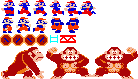
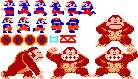
feat: add barrel spawner

Changed region(s): [[0.6667, 0.1772, 0.9855, 0.6076]]

diff --git a/src/world.cpp b/src/world.cpp
@@ -7,9 +7,13 @@
 World::World(int w, int h, TextureManager &textures)
     : width(w), height(h), player(Vector2(0, 0), NULL), tiles(NULL),
       tile_count(0), ladders(NULL), ladder_count(0), barrels(NULL),
-      barrel_count(0), textures(textures) {
+      barrel_count(0), textures(textures), barrel_spawner(Vector2(0, 0), NULL) {
 
   player = Player(Vector2(0, 0), &textures.player_texture);
+  barrel_spawner =
+      BarrelSpawner(Vector2(5, LOGICAL_SCREEN_HEIGHT - 38 * TILE_HEIGHT -
+                                   BARREL_SPAWNER_HEIGHT),
+                    &textures.barrel_spawner_texture);
 
   tiles = new Tile[MAX_TILE_COUNT];
   tile_count = 0;
@@ -28,11 +32,6 @@ World::World(int w, int h, TextureManager &textures)
   gen_tile_line(26, 4, 32, -1.5, 6, 2);
 
   gen_tile_line(0, 5, 38, 0);
-
-  barrels[barrel_count++] =
-      Barrel(Vector2(60, 80), DIR_RIGHT, &textures.barrel_texture);
-  barrels[barrel_count++] =
-      Barrel(Vector2(0, 20), DIR_LEFT, &textures.barrel_texture);
 }
 
 World::~World() {
@@ -82,6 +81,8 @@ void World::update(double dt) {
   for (int i = 0; i < barrel_count; i++) {
     barrels[i].update(this, dt);
   }
+
+  barrel_spawner.update(this, dt);
 }
 
 void World::draw(Screen &screen) {
@@ -97,4 +98,91 @@ void World::draw(Screen &screen) {
     barrels[i].draw(screen);
   }
   player.draw(screen);
+  barrel_spawner.draw(screen);
+}
+
+BarrelSpawner::BarrelSpawner(Vector2 pos, AnimatedTexture *texture)
+    : pos(pos), texture(texture), state(WAITING), timer(0), id_to_replace(-1) {}
+
+AnimatedTexture BarrelSpawner::create_texture() {
+  AnimatedTexture texture(BARREL_SPAWNER_WIDTH, BARREL_SPAWNER_HEIGHT);
+  texture.add_animation(
+      WAITING, AnimationFrames(92, 15, 1, BARREL_SPAWN_DELAY, 0, OR_NONE));
+
+  texture.add_animation(ABOUT_TO_SPAWN,
+                        AnimationFrames(46, 47, 2, 0.15, 0, OR_NONE));
+
+  texture.add_animation(SPAWNING, AnimationFrames(0, 47, 1, 0, 0, OR_NONE));
+
+  return texture;
+}
+
+bool BarrelSpawner::check_can_spawn(World *world) {
+  if (id_to_replace < 0) {
+    id_to_replace = get_fallen_off_id(world);
+  }
+  return id_to_replace >= 0 || world->barrel_count < MAX_BARREL_COUNT;
+}
+
+void BarrelSpawner::update(World *world, double dt) {
+  timer += dt;
+  texture->update(dt, true);
+
+  switch (state) {
+  case WAITING:
+    if (timer >= BARREL_SPAWN_DELAY && check_can_spawn(world)) {
+      state = ABOUT_TO_SPAWN;
+      timer = 0;
+    }
+    break;
+  case ABOUT_TO_SPAWN:
+    if (timer >= BARREL_ABOUT_TO_SPAWN_TIME) {
+      state = SPAWNING;
+      timer = 0;
+      spawn(world);
+    }
+    break;
+  case SPAWNING:
+    if (timer >= BARREL_SPAWN_TIME) {
+      state = WAITING;
+      timer = 0;
+
+      world->barrels[world->barrel_count - 1].start_moving(DIR_RIGHT);
+    }
+    break;
+  };
+
+  texture->change_state(state);
+}
+
+void BarrelSpawner::draw(Screen &screen) {
+  texture->draw(&screen, pos.x, pos.y);
+}
+
+int BarrelSpawner::get_fallen_off_id(World *world) {
+  for (int i = 0; i < world->barrel_count; i++) {
+    if (world->barrels[i].fallen_off) {
+      return i;
+    }
+  }
+  return -1;
+}
+
+Barrel BarrelSpawner::get_barrel(World *world) {
+  Vector2 b_pos(this->pos.x + BARREL_SPAWN_X_OFFSET,
+                this->pos.y + BARREL_SPAWN_Y_OFFSET);
+
+  return Barrel(b_pos, &world->textures.barrel_texture);
+}
+
+void BarrelSpawner::spawn(World *world) {
+  if (id_to_replace >= 0) {
+    // if theres is barrel to replace (teleport), swap it with the last one
+    // so the newest barrel is always at the end of the array
+    world->barrels[id_to_replace] = world->barrels[world->barrel_count - 1];
+    world->barrels[world->barrel_count - 1] = get_barrel(world);
+    id_to_replace = -1;
+    return;
+  }
+  world->barrels[world->barrel_count++] = get_barrel(world);
 }

diff --git a/src/objects.cpp b/src/objects.cpp
@@ -301,11 +301,26 @@ void Player::player_vertical_movement(double dt) {
   dynamic_obj.vertical_movement(move_direction, dt);
 }
 
-Barrel::Barrel(Vector2 pos, MoveDirection dir, AnimatedTexture *texture)
+Barrel::Barrel(Vector2 pos, AnimatedTexture *texture)
     : dynamic_obj(pos, BARREL_WIDTH, BARREL_HEIGHT, BARREL_MOVE_VEL, texture),
-      move_direction(dir), fallen_off(false) {}
+      move_direction(DIR_NONE), fallen_off(false) {
 
-Barrel::Barrel() : Barrel(Vector2(0, 0), DIR_NONE, NULL){};
+  dynamic_obj.coyote_on_ground = true;
+  dynamic_obj.on_ground = true;
+  freeze();
+}
+
+Barrel::Barrel() : Barrel(Vector2(0, 0), NULL){};
+
+void Barrel::start_moving(MoveDirection dir) {
+  dynamic_obj.acceleration.y = GRAVITY;
+  move_direction = dir;
+}
+
+void Barrel::freeze() {
+  dynamic_obj.acceleration.y = 0;
+  move_direction = DIR_NONE;
+}
 
 AnimatedTexture Barrel::create_texture() {
   AnimatedTexture texture = AnimatedTexture(BARREL_WIDTH, BARREL_HEIGHT);
@@ -328,9 +343,8 @@ void Barrel::update(World *world, double dt) {
   bool hit_ground = dynamic_obj.check_tile_collisions_y(world, false);
 
   if (dynamic_obj.rect_obj.bottom() > world->height) {
-    dynamic_obj.rect_obj.pos = Vector2(0, 20);
-    /* fallen_off = true; */
-    /* move_direction = DIR_NONE; */
+    fallen_off = true;
+    move_direction = DIR_NONE;
     return;
   }
 

diff --git a/src/world.hpp b/src/world.hpp
@@ -8,6 +8,46 @@
 #define MAX_TILE_COUNT 300
 #define MAX_LADDER_COUNT 20
 
+#define BARREL_SPAWN_DELAY 1.5
+#define BARREL_ABOUT_TO_SPAWN_TIME 0.85
+#define BARREL_SPAWN_TIME 0.2
+
+#define BARREL_SPAWNER_WIDTH 46
+#define BARREL_SPAWNER_HEIGHT 32
+
+#define BARREL_SPAWN_X_OFFSET 41
+#define BARREL_SPAWN_Y_OFFSET 20
+
+class World;
+
+enum BarrelSpawnerState {
+  WAITING,
+  ABOUT_TO_SPAWN,
+  SPAWNING,
+};
+
+class BarrelSpawner {
+public:
+  AnimatedTexture *texture;
+  Vector2 pos;
+  BarrelSpawnerState state;
+  double timer;
+
+  int id_to_replace;
+
+  static AnimatedTexture create_texture();
+
+  BarrelSpawner(Vector2 pos, AnimatedTexture *texture);
+
+  int get_fallen_off_id(World *world);
+  Barrel get_barrel(World *world);
+
+  bool check_can_spawn(World *world);
+  void update(World *world, double dt);
+  void draw(Screen &screen);
+  void spawn(World *world);
+};
+
 class World {
 
 public:
@@ -22,6 +62,8 @@ public:
 
   Barrel *barrels;
   int barrel_count;
+
+  BarrelSpawner barrel_spawner;
 
   TextureManager &textures;
 

diff --git a/src/texture.cpp b/src/texture.cpp
@@ -1,5 +1,6 @@
 #include "texture.hpp"
 #include "objects.hpp"
+#include "world.hpp"
 #include <cassert>
 
 AnimationFrames::AnimationFrames(int atlas_x, int atlas_y, int frame_count,
@@ -112,4 +113,5 @@ TextureManager::TextureManager()
     : player_texture(Player::create_texture()),
       barrel_texture(Barrel::create_texture()),
       tile_texture(Tile::create_texture()),
-      ladder_texture(Ladder::create_texture()) {}
+      ladder_texture(Ladder::create_texture()),
+      barrel_spawner_texture(BarrelSpawner::create_texture()) {}

diff --git a/src/objects.hpp b/src/objects.hpp
@@ -147,13 +147,15 @@ public:
   DynamicObject dynamic_obj;
   MoveDirection move_direction;
 
-  Barrel(Vector2 pos, MoveDirection dir, AnimatedTexture *texture);
+  Barrel(Vector2 pos, AnimatedTexture *texture);
   Barrel();
 
   static AnimatedTexture create_texture();
 
   RectObject &get_rect();
 
+  void start_moving(MoveDirection dir);
+  void freeze();
   void update(World *world, double dt);
   void draw(Screen &screen);
 };

diff --git a/src/texture.hpp b/src/texture.hpp
@@ -79,6 +79,7 @@ public:
   AnimatedTexture barrel_texture;
   SimpleTexture tile_texture;
   SimpleTexture ladder_texture;
+  AnimatedTexture barrel_spawner_texture;
 
   TextureManager();
 };
